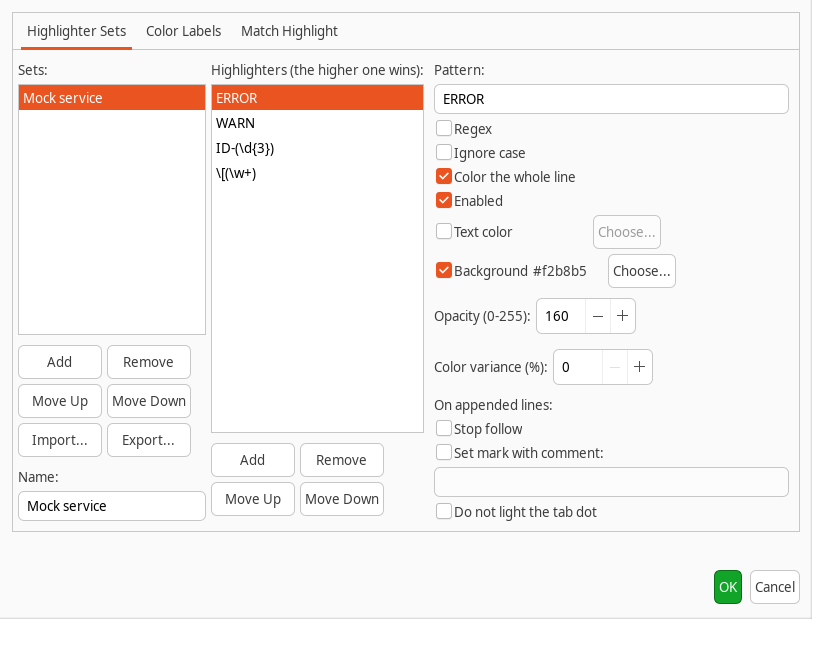
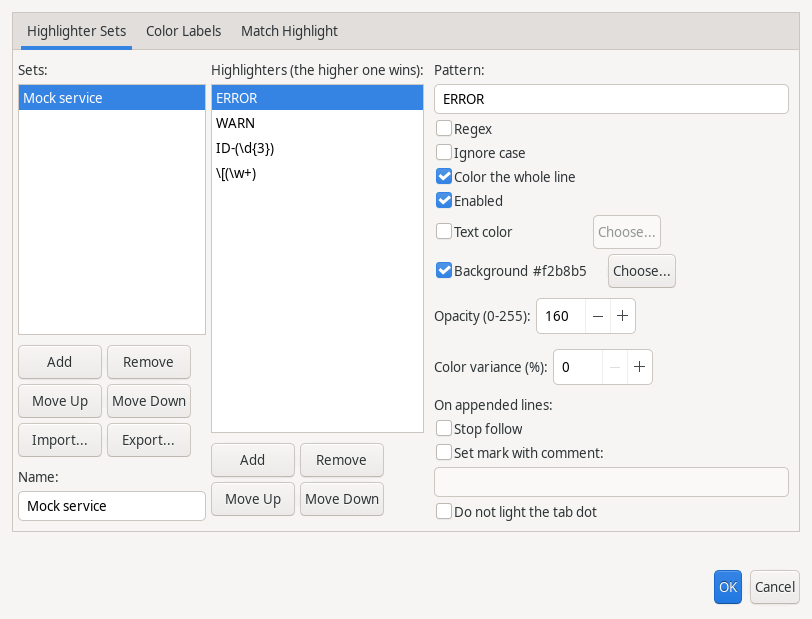
Pin GUI tests to Adwaita through XDG_CONFIG_DIRS so ibus stays reachable, and regenerate every README and guide screenshot with the rc2 features

Changed region(s): [[0.0, 0.0, 0.9852, 0.8595], [0.8621, 0.8595, 0.9852, 0.9822], [0.7697, 0.5525, 0.8005, 0.6139]]

diff --git a/qlogg-ui-swt/src/test/java/io/github/ajdailey/qlogg/ui/swt/GuideScreenshotsTest.java b/qlogg-ui-swt/src/test/java/io/github/ajdailey/qlogg/ui/swt/GuideScreenshotsTest.java
@@ -12,6 +12,8 @@ import io.github.ajdailey.qlogg.app.config.TimeSettings;
 import io.github.ajdailey.qlogg.app.controller.ApplicationController;
 import io.github.ajdailey.qlogg.app.controller.DocumentController;
 import io.github.ajdailey.qlogg.app.highlight.HighlightSettings;
+import io.github.ajdailey.qlogg.app.theme.ColorSchemes;
+import io.github.ajdailey.qlogg.app.view.FolderSearchState;
 import io.github.ajdailey.qlogg.app.view.SearchOptions;
 import io.github.ajdailey.qlogg.app.view.SearchViewState;
 import io.github.ajdailey.qlogg.app.view.WindowGeometry;
@@ -48,7 +50,9 @@ import org.eclipse.swt.graphics.Image;
 import org.eclipse.swt.graphics.ImageData;
 import org.eclipse.swt.graphics.ImageLoader;
 import org.eclipse.swt.graphics.Point;
+import org.eclipse.swt.graphics.Rectangle;
 import org.eclipse.swt.widgets.Display;
+import org.eclipse.swt.widgets.Event;
 import org.eclipse.swt.widgets.Shell;
 import org.junit.jupiter.api.Tag;
 import org.junit.jupiter.api.Test;
@@ -57,11 +61,13 @@ import org.junit.jupiter.api.io.TempDir;
 
 /**
  * Writes the user guide's screenshots to {@code -Dqlogg.guide.shots=<dir>} ({@code
- * tools/screenshots.sh}): the main window with search results and marks, a selection's time
- * difference, collapsed stack traces, the highlighters dialog, the Options Folding tab and Keyboard
- * Shortcuts and both time-spread modes, each painted through {@code Shell.print} from a generated
- * mock log, written to {@code -Dqlogg.screenshots.logs=<dir>} when given, so the path field shows
- * that path.
+ * tools/screenshots.sh}) from generated mock logs, written to {@code
+ * -Dqlogg.screenshots.logs=<dir>} when given, so the path field shows that path: the main window
+ * with search results and marks, a selection's time difference, collapsed stack traces, the
+ * highlighters dialog, the Options Folding tab, Keyboard Shortcuts, both time-spread modes and
+ * Search in Folder, painted through {@code Shell.print}; the tab list, the command palette, the
+ * View colors list, the Nightwater scheme and File > Recently Closed, read from the screen, where
+ * open menus show.
  */
 @Tag("swt")
 @EnabledIfSystemProperty(named = "qlogg.guide.shots", matches = ".+")
@@ -109,10 +115,10 @@ class GuideScreenshotsTest {
               services,
               new ConfigStore(new SettingsLocation(SettingsMode.EXPLICIT, temp)),
               Preferences.DEFAULTS
-                  .withHighlights(highlights())
+                  .withHighlights(highlights(LIGHT_COLORS))
                   .withTime(new TimeSettings(ZoneOffset.UTC, ZoneOffset.UTC, List.of())));
       window.attach(controller);
-      window.place(new WindowGeometry.Request(0, 0, 960, 600), null);
+      window.place(new WindowGeometry.Request(0, 0, 1100, 700), null);
       window.open();
       shoot();
       controller.shutdown();
@@ -216,6 +222,192 @@ class GuideScreenshotsTest {
     spreadShot(CommandId.TIME_SPREAD_ACTIVITY, SpreadMode.ACTIVITY, "time-spread-activity.png");
     spreadShot(CommandId.TIME_SPREAD_PAUSES, SpreadMode.PAUSES, "time-spread-pauses.png");
     controller.execute(CommandId.TIME_SPREAD_OFF);
+    tabShots(dir);
+    folderSearchShot(dir);
+    viewColorsShots(document);
+    recentlyClosedShot();
+  }
+
+  /** The tab list and the command palette, read from the screen. */
+  private void tabShots(Path dir) throws Exception {
+    String[] names = {
+      "gateway",
+      "ingest",
+      "scheduler",
+      "store",
+      "audit",
+      "billing",
+      "export",
+      "metrics",
+      "notify",
+      "queue",
+      "reports",
+      "session"
+    };
+    for (String name : names) {
+      final Path log = mockLog(dir.resolve(name + ".log"));
+      controller.open(List.of(new FileRequest(log, 0)));
+      assertTrue(
+          runUntil(
+              new BooleanSupplier() {
+                @Override
+                public boolean getAsBoolean() {
+                  DocumentController shown = controller.activeDocument();
+                  return shown != null
+                      && shown.state().title().equals(log.getFileName().toString())
+                      && !shown.state().indexing();
+                }
+              }));
+    }
+    controller.activate(controller.documents().get(3));
+    // At the screen's right edge, so the list menu opens leftward inside the window.
+    Rectangle screen = display.getBounds();
+    window.shell().setLocation(screen.width - drawn(window.shell()).width, 0);
+    settle();
+    TabStripButtons buttons = window.tabButtons();
+    buttons.tabList().show(buttons.listButton());
+    settle();
+    saveScreen(window.shell(), "tab-list.png");
+    buttons.tabList().menu().setVisible(false);
+    window.shell().setLocation(0, 0);
+    settle();
+
+    controller.execute(CommandId.COMMAND_PALETTE);
+    CommandPaletteWindow palette = window.commandPalette();
+    palette.filter().setText("gtl");
+    settle();
+    saveScreen(window.shell(), "palette.png");
+    palette.shell().dispose();
+    settle();
+  }
+
+  /** File > Recently Closed, opened through posted keys; the menu stays open until shutdown. */
+  private void recentlyClosedShot() {
+    for (int i = 0; i < 3; i++) {
+      controller.closeDocument(controller.documents().get(controller.documents().size() - 1));
+    }
+    window.syncMenu();
+    window.shell().forceActive();
+    settle();
+    // Alt+F opens File; the mnemonic opens Recently Closed.
+    postKeys(SWT.ALT, 'f');
+    settle();
+    postKeys(0, 't');
+    settle();
+    assertTrue(
+        window.menuBar().closedMenu().isVisible(),
+        "Alt+F opened no menu; it fires only with the ibus daemon reachable");
+    saveScreen(window.shell(), "recently-closed.png");
+  }
+
+  /** Search in Folder over a folder of mock logs, one of them compressed. */
+  private void folderSearchShot(Path dir) throws Exception {
+    Path folder = Files.createDirectories(dir.resolve("archive"));
+    mockLog(folder.resolve("service.log"));
+    mockLog(folder.resolve("service.log.1"));
+    mockLog(folder.resolve("ingest.log"));
+    Files.write(
+        folder.resolve("service.log.2.gz"), new byte[] {0x1f, (byte) 0x8b, 8, 0, 0, 0, 'h'});
+    controller.execute(CommandId.SEARCH_FOLDER);
+    final FolderSearchWindow search = window.folderSearch();
+    search.folder().setText(folder.toString());
+    search.text().setText("failed");
+    search.shell().getDefaultButton().notifyListeners(SWT.Selection, new Event());
+    assertTrue(
+        runUntil(
+            new BooleanSupplier() {
+              @Override
+              public boolean getAsBoolean() {
+                return controller.folderSearch().state().phase() == FolderSearchState.Phase.DONE
+                    && search.files().getItemCount() == 4;
+              }
+            }));
+    search.files().setSelection(0);
+    search.files().notifyListeners(SWT.Selection, new Event());
+    settle();
+    save(search.shell(), "folder-search.png");
+    search.shell().dispose();
+  }
+
+  /** The View colors list in Options and the log views under a bundled dark scheme. */
+  private void viewColorsShots(DocumentController document) {
+    OptionsDialog options = new OptionsDialog(window.shell(), controller);
+    options.open();
+    options.folder().setSelection(1);
+    options.viewColors().select(4);
+    options.viewColors().setFocus();
+    // Taller, so the open list fits inside the dialog.
+    Point size = options.shell().getSize();
+    options.shell().setSize(size.x, size.y + 150);
+    settle();
+    options.viewColors().setListVisible(true);
+    settle();
+    saveScreen(options.shell(), "options-view-colors.png");
+    options.viewColors().setListVisible(false);
+    options.shell().dispose();
+
+    controller.activate(document);
+    HighlightSettings light = controller.preferences().highlights();
+    controller.setHighlightSettings(highlights(DARK_COLORS));
+    controller.setViewOptions(controller.preferences().view().withColors("nightwater"));
+    settle();
+    saveScreen(window.shell(), "view-colors-nightwater.png");
+    controller.setViewOptions(
+        controller.preferences().view().withColors(ColorSchemes.FOLLOW_THEME));
+    controller.setHighlightSettings(light);
+    settle();
+  }
+
+  /** Posts a key, with a modifier held when {@code modifier} is not 0. */
+  private void postKeys(int modifier, int key) {
+    if (modifier != 0) {
+      post(SWT.KeyDown, modifier, '\0');
+    }
+    post(SWT.KeyDown, 0, (char) key);
+    post(SWT.KeyUp, 0, (char) key);
+    if (modifier != 0) {
+      post(SWT.KeyUp, modifier, '\0');
+    }
+  }
+
+  private void post(int type, int keyCode, char character) {
+    Event event = new Event();
+    event.type = type;
+    event.keyCode = keyCode;
+    event.character = character;
+    display.post(event);
+  }
+
+  /** The area a shell draws: its menu bar and client area. */
+  private static Rectangle drawn(Shell shell) {
+    Rectangle bounds = shell.getBounds();
+    Point client = shell.toDisplay(0, 0);
+    Rectangle area = shell.getClientArea();
+    return new Rectangle(
+        bounds.x, bounds.y, client.x - bounds.x + area.width, client.y - bounds.y + area.height);
+  }
+
+  /** Saves the screen under a shell, so open menus and windows over it show. */
+  private void saveScreen(Shell shell, String name) {
+    while (display.readAndDispatch()) {
+      // Flush pending paints.
+    }
+    Rectangle area = drawn(shell);
+    Image image = new Image(display, area.width, area.height);
+    GC gc = new GC(display);
+    try {
+      gc.copyArea(image, area.x, area.y);
+      write(image, name);
+    } finally {
+      gc.dispose();
+      image.dispose();
+    }
+  }
+
+  private void write(Image image, String name) {
+    ImageLoader loader = new ImageLoader();
+    loader.data = new ImageData[] {image.getImageData()};
+    loader.save(out.resolve(name).toString(), SWT.IMAGE_PNG);
   }
 
   /** Chooses a time-spread mode and saves the window once the bar shows it. */
@@ -264,35 +456,38 @@ class GuideScreenshotsTest {
 
   /** Paints a shell into an image through the public print API and writes a PNG. */
   private void save(Shell shell, String name) {
-    while (display.readAndDispatch()) {
-      // Flush pending paints so the image shows the latest rows.
-    }
-    Point size = shell.getSize();
-    Image image = new Image(display, size.x, size.y);
+    // An inactive window draws GTK's faded backdrop style.
+    shell.forceActive();
+    settle();
+    Rectangle area = drawn(shell);
+    Image image = new Image(display, area.width, area.height);
     GC gc = new GC(image);
     try {
       shell.print(gc);
-      ImageLoader loader = new ImageLoader();
-      loader.data = new ImageData[] {image.getImageData()};
-      loader.save(out.resolve(name).toString(), SWT.IMAGE_PNG);
+      write(image, name);
     } finally {
       gc.dispose();
       image.dispose();
     }
   }
 
-  private static HighlightSettings highlights() {
+  /** Colors per rule: ERROR line, WARN text, ID background, component text. */
+  private static final int[] LIGHT_COLORS = {0xf2b8b5, 0x7a4f00, 0x9fd3ff, 0x2f7d32};
+
+  private static final int[] DARK_COLORS = {0x6e2522, 0xe0b04a, 0x1f4a6b, 0x7fc77f};
+
+  private static HighlightSettings highlights(int[] c) {
     HighlightSet set =
         new HighlightSet(
             "mock-service",
             "Mock service",
             List.of(
                 new HighlightRule(
-                    "ERROR", MatchMode.LITERAL, true, true, null, Rgb.of(0xf2b8b5), 160, 0, true),
-                HighlightRule.matchOnly("WARN", MatchMode.LITERAL, Rgb.of(0x7a4f00), null),
-                HighlightRule.matchOnly("ID-(\\d{3})", MatchMode.REGEX, null, Rgb.of(0x9fd3ff))
+                    "ERROR", MatchMode.LITERAL, true, true, null, Rgb.of(c[0]), 160, 0, true),
+                HighlightRule.matchOnly("WARN", MatchMode.LITERAL, Rgb.of(c[1]), null),
+                HighlightRule.matchOnly("ID-(\\d{3})", MatchMode.REGEX, null, Rgb.of(c[2]))
                     .withAlphaAndVariance(200, 25),
-                HighlightRule.matchOnly("\\[(\\w+)", MatchMode.REGEX, Rgb.of(0x2f7d32), null)));
+                HighlightRule.matchOnly("\\[(\\w+)", MatchMode.REGEX, Rgb.of(c[3]), null)));
     return HighlightSettings.DEFAULTS.withSets(List.of(set)).withActive(List.of(set.id()));
   }
 

diff --git a/qlogg-launcher/src/test/java/io/github/ajdailey/qlogg/launcher/ScreenshotsTest.java b/qlogg-launcher/src/test/java/io/github/ajdailey/qlogg/launcher/ScreenshotsTest.java
@@ -249,18 +249,17 @@ class ScreenshotsTest {
     while (display.readAndDispatch()) {
       // Flush pending paints so the image shows the latest rows.
     }
-    Point size = window.shell().getSize();
-    if (screen) {
-      // Shell.print draws GTK native controls light under a dark theme; the screen shows them.
-      Rectangle area = window.shell().getClientArea();
-      size = new Point(area.width, area.height);
-    }
-    Image image = new Image(display, size.x, size.y);
+    // The menu bar and client area; the shell's size also counts window trim it does not draw.
+    Rectangle bounds = window.shell().getBounds();
+    Point client = window.shell().toDisplay(0, 0);
+    Rectangle area = window.shell().getClientArea();
+    Image image =
+        new Image(display, client.x - bounds.x + area.width, client.y - bounds.y + area.height);
     GC gc = screen ? new GC(display) : new GC(image);
     try {
       if (screen) {
-        Point origin = window.shell().toDisplay(0, 0);
-        gc.copyArea(image, origin.x, origin.y);
+        // Shell.print draws GTK native controls light under a dark theme; the screen shows them.
+        gc.copyArea(image, bounds.x, bounds.y);
       } else {
         window.shell().print(gc);
       }

diff --git a/docs/user-guide.md b/docs/user-guide.md
@@ -73,6 +73,8 @@ Encoding menu forces another one, and the choice is remembered for the file.
 - The status bar shows indexing, follow and notices. A warning marker appears
   when QLogg logs a warning; a click opens Help > Show Log.
 
+![The tab list open over a row of twelve tabs](images/guide/tab-list.png)
+
 ## Moving around
 
 | Keys | Action |
@@ -101,6 +103,8 @@ line. Go Back and Go Forward are gray when there is no jump in that direction.
 View > Command Palette lists every menu command with its menu and keys. Type
 letters of the command's name in order, such as `gtl` for Go to Line, and press
 `Enter` to run the first one. Commands that cannot run now are gray.
+
+![Command palette filtered by gtl](images/guide/palette.png)
 
 ## Search and the filtered view
 
@@ -182,6 +186,8 @@ that line, or to go there in the tab that already shows it. Compressed or
 binary files show Not text, and files that cannot be read show why. When
 the matching lines fill the memory set aside for results, the search stops
 and says so; narrow the search or the file names.
+
+![Search in Folder results, with a compressed file shown as Not text](images/guide/folder-search.png)
 
 ## Marks and quick find
 
@@ -454,6 +460,10 @@ light chrome and the reverse. A named scheme keeps its colors through every
 theme change, including a system appearance change; menus, dialogs and other
 controls keep following the theme. A change applies at once.
 
+![View colors in Tools > Options, View](images/guide/options-view-colors.png)
+
+![The Nightwater scheme in light chrome](images/guide/view-colors-nightwater.png)
+
 | Scheme | Colors |
 |---|---|
 | Light | Navy on white |
@@ -513,6 +523,8 @@ names any it could not open; Clear empties Recently Closed. File > Reopen
 Closed Tab (`Ctrl+Shift+T`) takes the newest file off
 Recently Closed and opens it. File > Favorites adds, removes and opens
 favorite files.
+
+![File > Recently Closed](images/guide/recently-closed.png)
 
 ## Windows and the running instance
 

diff --git a/qlogg-ui-swt/TESTING.md b/qlogg-ui-swt/TESTING.md
@@ -13,12 +13,17 @@ documents. Module overview: [README.md](README.md).
   them.
 - The `test-gtk4` CI job runs them with `SWT_GTK4=1`. A test that hits a known
   GTK 4 failure skips itself there through the test class `Gtk4`.
-- The root POM sets `XDG_CONFIG_HOME` to the test classes' `gtk-config`,
+- The root POM sets `XDG_CONFIG_DIRS` to the test classes' `gtk-config`,
   whose `settings.ini` names Adwaita for GTK 3 and GTK 4. Ubuntu's
   `/etc/gtk-3.0/settings.ini` names Yaru, which the CI runner lacks, and a
   missing theme keeps native controls light under the dark setting (measured
   with `GTK_THEME` naming a missing theme: every dark test passed while native
-  backgrounds read 246,245,244).
+  backgrounds read 246,245,244). A `settings.ini` in `~/.config/gtk-3.0` or
+  `gtk-4.0` overrides the pin. `XDG_CONFIG_HOME` is not used: it hides
+  `~/.config/ibus`, and without the ibus daemon a posted Alt accelerator does
+  not fire under Xvfb, with or without the simple input method (measured on
+  GTK 3). `GTK_THEME=Adwaita` is not used: it keeps native controls light under
+  the dark setting (measured 246,245,244).
 - `EventLoop.runUntil` dispatches events until a condition holds, with a bound
   and no fixed sleep.
 - Tests post pointer events with `notifyListeners`. Xvfb's pointer sits over
